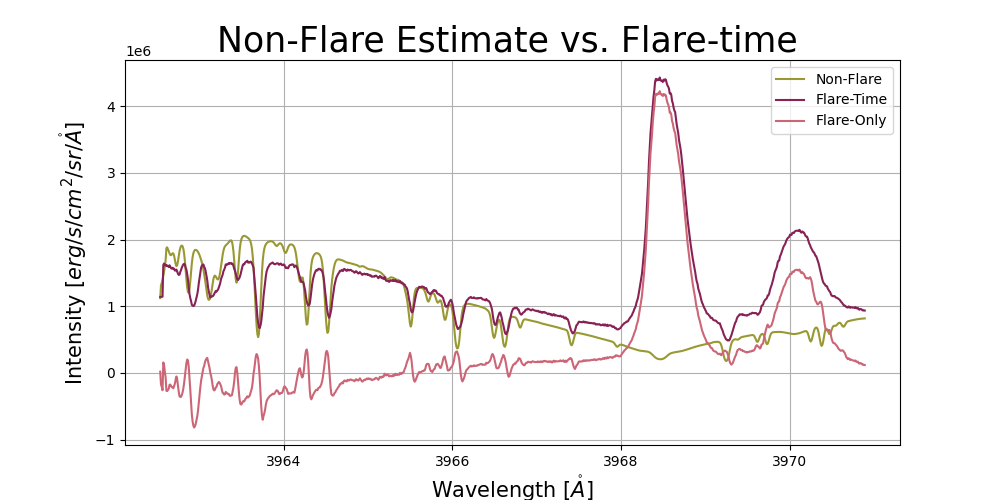
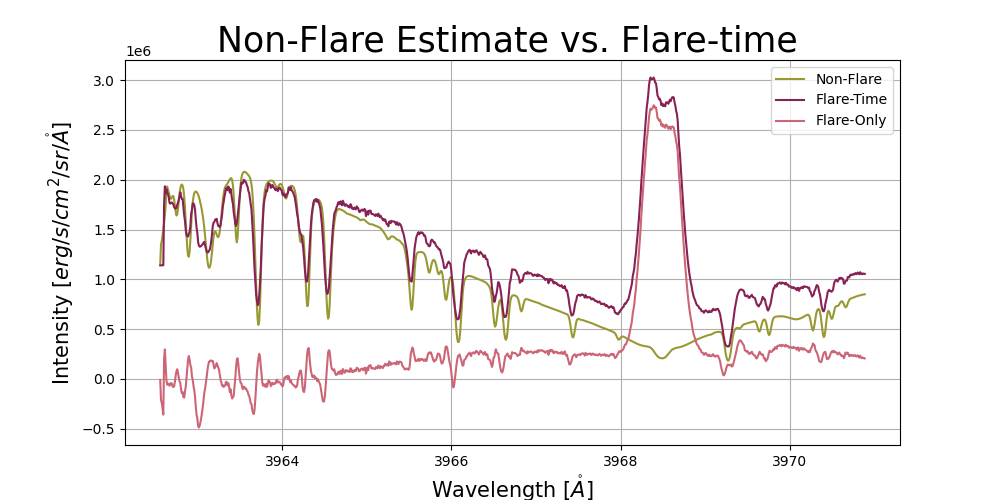
minor change to qs processing

diff --git a/PID_2_11/pid_2_11_11Aug_Cimpulse_caii_2223UT.py b/PID_2_11/pid_2_11_11Aug_Cimpulse_caii_2223UT.py
@@ -33,7 +33,7 @@ muted = DKISTanalysis.color_muted2()
 path = '/Volumes/ViSP_External/pid_2_11/'
 path2 = '/Volumes/ViSP_External/pid_2_11/'
 folder1 = 'AQWDJ'
-folder2 = 'AORVR'  #need to add data for QS
+folder2 = 'AORVR'  #need to add data for QS for 11 august...
 
 # list of files in directory for DKIST/ViSP
 dir_list2 = DKISTanalysis.pathdef(path,folder1) #flaretime
@@ -118,8 +118,7 @@ wlsel=wlsel/10
 # Average the QS data for space and time, for selected ranges
 space_and_time_averaged_qs = \
     DKISTanalysis.comp_fts_to_qs(wlsel,ilamsel,dispersion_range, 
-                                 image_data_arr_arr_qs, lowint = -500,highint=-1,
-                                 timelow=20,timehigh=46)
+                                 image_data_arr_arr_qs)
 
 # telluric lines for comparison (or other absorption lines if telluric not 
 # available, as is the case for the Ca II H window).  Most of the next steps
